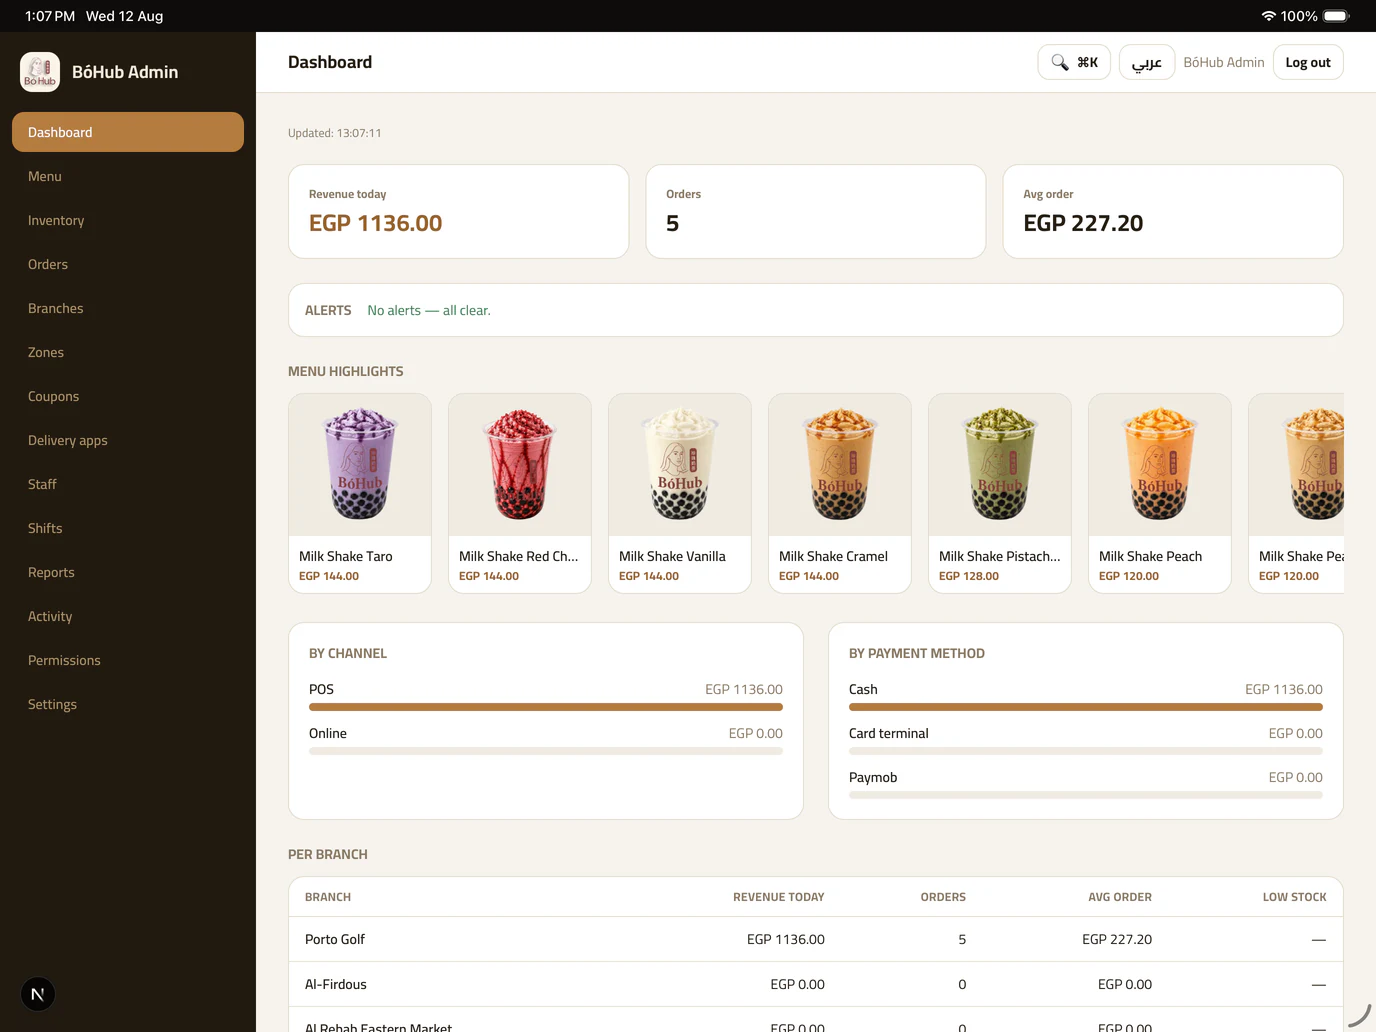
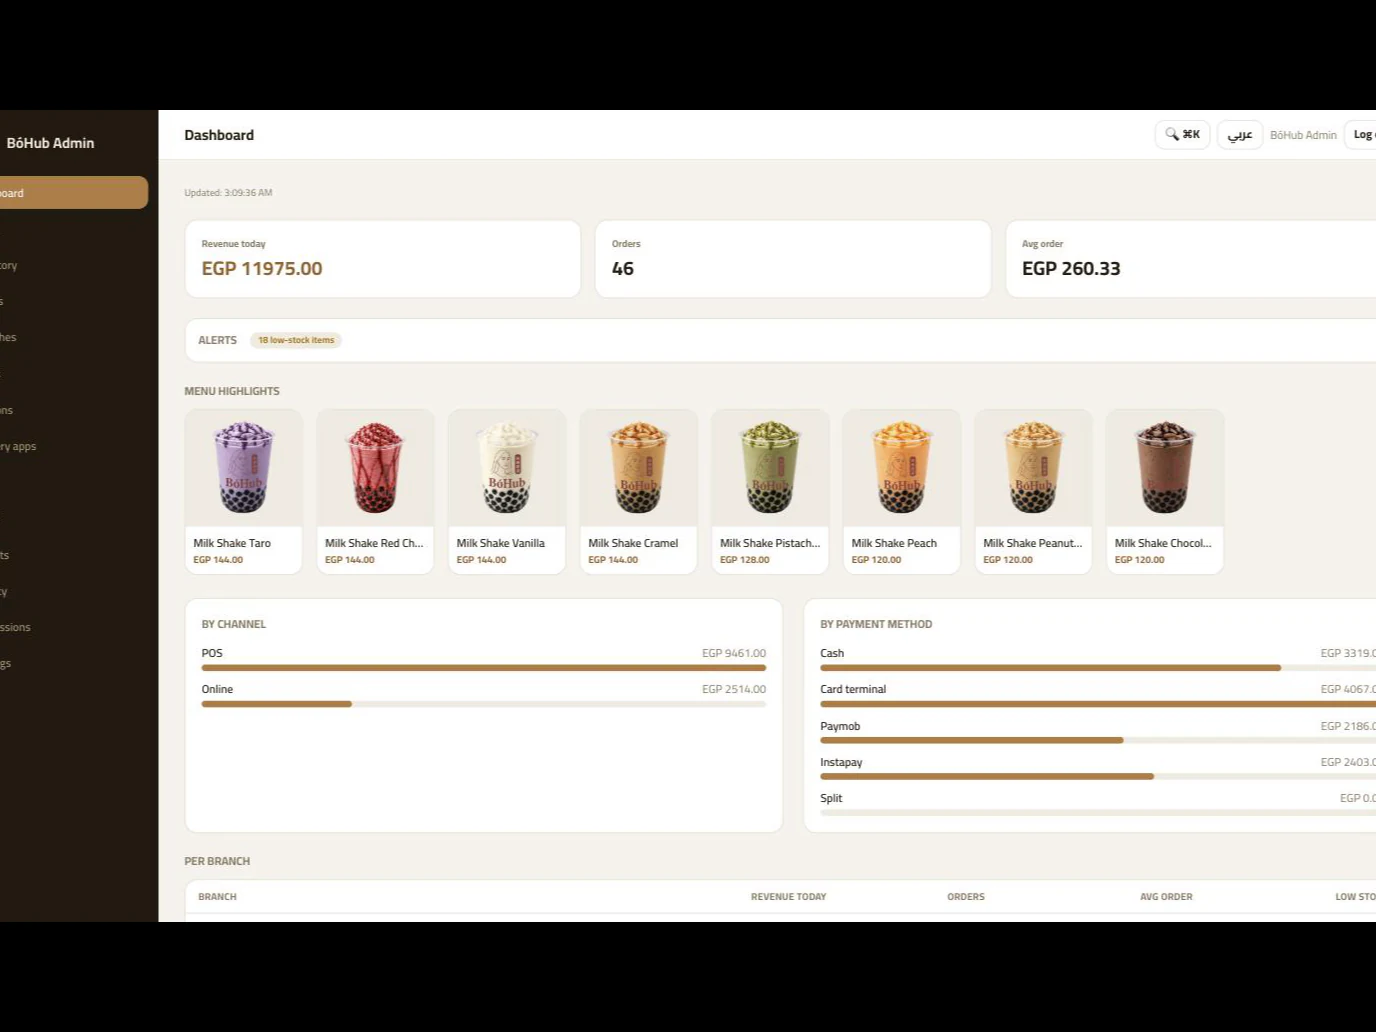
feat(sufra): real screenshots from a seeded stack, carousel and scroll motion
Ran the whole stack locally against the seeded dev database and
photographed it, rather than reusing the older captures.

The storefront finally has a real screenshot. It was the one surface still
drawing a CSS mock because no capture existed; the shop app now shows the
branded menu with product photography, prices and sale badges. All four
Tour surfaces are real product now, and Mock survives only as the fallback
for a tab added later with no capture.

Getting usable captures meant fixing the data first:
  - An e2e run had left a "split-e2e-msukb88s" category and product in the
    dev catalogue, which rendered at the top of the storefront menu.
  - The dashboard read zero because the only open business day was dated
    two days earlier, and daily reports bucket by business day, not by
    placedAt. Dated it to today and generated 34 completed orders spread
    across the day so the channel and payment-method bars have shape.
    Dev database only; production untouched.

New ScreenshotCarousel: a native scroll-snap track, so swipe, trackpad,
keyboard and scrollbar all work without being re-implemented, and the
slides are readable with no JS. Auto-advance pauses off-screen and when
the tab is hidden, stops permanently on first interaction, and never
starts under prefers-reduced-motion — a carousel that yanks itself along
while you read a caption is worse than none.

Navigation uses scrollIntoView({inline:"center"}) rather than arithmetic
[…]

diff --git a/components/ScreenshotCarousel.tsx b/components/ScreenshotCarousel.tsx
@@ -1,0 +1,190 @@
+"use client";
+
+import { useCallback, useEffect, useRef, useState } from "react";
+import IpadFrame from "@/components/IpadFrame";
+
+export interface CarouselItem {
+  src: string;
+  alt: string;
+  caption: string;
+  orientation?: "landscape" | "portrait";
+}
+
+/**
+ * Auto-advancing screenshot carousel.
+ *
+ * Built on a native scroll-snap track rather than transform slides, so the
+ * browser owns the physics: swipe on touch, trackpad flick, keyboard, and the
+ * scrollbar all work without being re-implemented, and it still functions if
+ * hydration never happens — the slides are laid out and scrollable in plain
+ * HTML. JS only adds auto-advance and the dots.
+ *
+ * Auto-play stops for good on first interaction. A carousel that yanks itself
+ * forward while the visitor is reading a caption is worse than no carousel, and
+ * `prefers-reduced-motion` disables it outright.
+ */
+export default function ScreenshotCarousel({
+  items,
+  ariaLabel,
+  intervalMs = 5200,
+}: {
+  items: CarouselItem[];
+  ariaLabel: string;
+  intervalMs?: number;
+}) {
+  const trackRef = useRef<HTMLDivElement>(null);
+  const [index, setIndex] = useState(0);
+  const [engaged, setEngaged] = useState(false);
+
+  /**
+   * Centre slide `i`.
+   *
+   * `scrollIntoView` rather than arithmetic on `offsetLeft`: offsetLeft is
+   * relative to the nearest positioned ancestor, not the scroll container, so
+   * computing a delta from it only coincidentally works — and it breaks in RTL,
+   * where the track's scroll origin sits on the right. `inline:"center"` is
+   * both snap-aware and direction-agnostic, and `block:"nearest"` stops it
+   * dragging the page vertically on the way.
+   */
+  const goTo = useCallback((i: number, smooth = true) => {
+    const slide = trackRef.current?.children[i] as HTMLElement | undefined;
+    slide?.scrollIntoView({
+      behavior: smooth ? "smooth" : "auto",
+      inline: "center",
+      block: "nearest",
+    });
+  }, []);
+
+  // Corrective sync for scrolls this component did not initiate — a swipe,
+  // a trackpad flick, a dragged scrollbar. Deliberately NOT the only source of
+  // truth: every code path that moves the track also sets `index` itself, so a
+  // dot still lights up even where scroll events are throttled or suppressed
+  // (some embedded and automated browsers emit none at all).
+  useEffect(() => {
+    const track = trackRef.current;
+    if (!track) return;
+    let frame = 0;
+    const onScroll = () => {
+      cancelAnimationFrame(frame);
+      frame = requestAnimationFrame(() => {
+        // Same reasoning as goTo: compare rect centres, not offsetLeft.
+        const t = track.getBoundingClientRect();
+        const mid = t.left + t.width / 2;
+        let best = 0;
+        let bestGap = Infinity;
+        for (let i = 0; i < track.children.length; i++) {
+          const r = (track.children[i] as HTMLElement).getBoundingClientRect();
+          const gap = Math.abs(r.left + r.width / 2 - mid);
+          if (gap < bestGap) { bestGap = gap; best = i; }
+        }
+        setIndex(best);
+      });
+    };
+    track.addEventListener("scroll", onScroll, { passive: true });
+    return () => {
+      track.removeEventListener("scroll", onScroll);
+      cancelAnimationFrame(frame);
+    };
+  }, []);
+
+  // Auto-advance: paused while off-screen, while the tab is hidden, and
+  // permanently once the visitor takes control.
+  useEffect(() => {
+    if (engaged || items.length < 2) return;
+    if (window.matchMedia("(prefers-reduced-motion: reduce)").matches) return;
+
+    const track = trackRef.current;
+    if (!track) return;
+    let visible = false;
+    const io = new IntersectionObserver(
+      ([e]) => { visible = e.isIntersecting; },
+      { threshold: 0.4 },
+    );
+    io.observe(track);
+
+    const id = setInterval(() => {
+      if (!visible || document.hidden) return;
+      setIndex((prev) => {
+        const next = (prev + 1) % items.length;
+        goTo(next);
+        return next;
+      });
+    }, intervalMs);
+
+    return () => { clearInterval(id); io.disconnect(); };
+  }, [engaged, goTo, intervalMs, items.length]);
+
+  const stop = useCallback(() => setEngaged(true), []);
+
+  return (
+    <div
+      className="flex flex-col gap-5"
+      role="region"
+      aria-roledescription="carousel"
+      aria-label={ariaLabel}
+      onPointerDown={stop}
+      onWheel={stop}
+      onKeyDown={(e) => {
+        if (e.key !== "ArrowRight" && e.key !== "ArrowLeft") return;
+        stop();
+        // Arrow keys are physical, not logical: in RTL the visually-right key
+        // still moves to the next slide because the track itself is flipped.
+        const dir = e.key === "ArrowRight" ? 1 : -1;
+        const rtl = getComputedStyle(e.currentTarget).direction === "rtl";
+        const next = Math.min(
+          items.length - 1,
+          Math.max(0, index + (rtl ? -dir : dir)),
+        );
+        setIndex(next);
+        goTo(next);
+      }}
+      tabIndex={0}
+    >
+      <div
+        ref={trackRef}
+        className="
+          flex snap-x snap-mandatory gap-5 overflow-x-auto overscroll-x-contain
+          pb-2 [scrollbar-width:none] [&::-webkit-scrollbar]:hidden
+        "
+      >
+        {items.map((item, i) => (
+          <figure
+            key={item.src}
+            className="w-[86%] shrink-0 snap-center sm:w-[68%] lg:w-[52%]"
+            aria-label={`${i + 1} / ${items.length}`}
+          >
+            <IpadFrame
+              src={item.src}
+              alt={item.alt}
+              orientation={item.orientation}
+              /* Only the first is eager; the rest are below the fold of the
+                 track and would otherwise all decode on load. */
+              priority={i === 0}
+            />
+            <figcaption className="mt-3 flex items-start gap-2 text-sm text-ink-dim">
+              <span className="pearl mt-2 shrink-0" aria-hidden="true" />
+              <span className="text-start">{item.caption}</span>
+            </figcaption>
+          </figure>
+        ))}
+      </div>
+
+      <div className="flex items-center justify-center gap-2">
+        {items.map((item, i) => (
+          <button
+            key={item.src}
+            type="button"
+            onClick={() => { stop(); setIndex(i); goTo(i); }}
+            aria-label={item.caption}
+            aria-current={i === index}
+            className={`h-2 rounded-full transition-all duration-300 ${
+              i === index
+                ? "w-7 bg-[var(--espresso)] dark:bg-[var(--on-espresso)]"
+                : "w-2 bg-ink-dim/30 hover:bg-ink-dim/60"
+            }`}
+          />
+        ))}
+      </div>
+    </div>
+  );
+}

diff --git a/components/ScrollLift.tsx b/components/ScrollLift.tsx
@@ -1,0 +1,68 @@
+"use client";
+
+import { useEffect, useRef } from "react";
+
+/**
+ * Scroll-linked lift: the child eases from slightly small, low and dimmed to
+ * its resting state as it travels up the viewport, then holds.
+ *
+ * Unlike `Reveal`, which fires once on intersection, this tracks scroll
+ * position continuously, so a device mockup feels attached to the page rather
+ * than popping in. The whole effect is a CSS custom property `--p` (0 → 1)
+ * written on the element; the transform reads from it, so the browser only ever
+ * composites — no layout, no React re-render per frame.
+ *
+ * Renders at rest (`--p: 1`) and only arms once JS runs, so no-JS visitors and
+ * crawlers see the finished state rather than a permanently dimmed one.
+ * `prefers-reduced-motion` leaves it at rest too.
+ */
+export default function ScrollLift({
+  children,
+  className = "",
+}: {
+  children: React.ReactNode;
+  className?: string;
+}) {
+  const ref = useRef<HTMLDivElement>(null);
+
+  useEffect(() => {
+    const el = ref.current;
+    if (!el) return;
+    if (window.matchMedia("(prefers-reduced-motion: reduce)").matches) return;
+
+    let frame = 0;
+    const update = () => {
+      frame = 0;
+      const rect = el.getBoundingClientRect();
+      const vh = window.innerHeight || 1;
+      // 0 while the top edge is still a viewport-height away, 1 once it has
+      // risen into the comfortable reading band.
+      const raw = 1 - (rect.top - vh * 0.25) / (vh * 0.75);
+      el.style.setProperty("--p", String(Math.min(1, Math.max(0, raw))));
+    };
+    const onScroll = () => {
+      if (frame) return;
+      frame = requestAnimationFrame(update);
+    };
+
+    el.dataset.armed = "true";
+    update();
+    window.addEventListener("scroll", onScroll, { passive: true });
+    window.addEventListener("resize", onScroll, { passive: true });
+    return () => {
+      window.removeEventListener("scroll", onScroll);
+      window.removeEventListener("resize", onScroll);
+      cancelAnimationFrame(frame);
+    };
+  }, []);
+
+  return (
+    <div
+      ref={ref}
+      className={`scroll-lift ${className}`.trim()}
+      style={{ "--p": 1 } as React.CSSProperties}
+    >
+      {children}
+    </div>
+  );
+}

diff --git a/components/home/Tour.tsx b/components/home/Tour.tsx
@@ -7,16 +7,18 @@ import { Check } from "@/components/icons";
 import Reveal from "@/components/Reveal";
 import { Container, SectionHead } from "@/components/Section";
 import IpadFrame from "@/components/IpadFrame";
+import ScrollLift from "@/components/ScrollLift";
 
 /**
  * Product tour — a vertical rail of surfaces on the reading edge, the selected
  * screen drawn opposite it.
  *
- * Three of the four surfaces now show the real product in an iPad frame —
- * captures of the live BóHub deployment, shipped as WebP (the whole set is
- * ~580 KB, and only the selected tab decodes). The customer storefront keeps
- * its CSS mock because no screenshot of it exists yet, and inventing one would
- * be the sort of thing this file's original comment was right to avoid.
+ * All four surfaces show the real product in an iPad frame — captures of the
+ * live BóHub deployment, shipped as WebP, and only the selected tab decodes.
+ * The storefront was the last to keep a CSS mock; rather than fake one, the
+ * shop app was run locally against the seeded database and photographed.
+ *
+ * `Mock` stays as the fallback for any tab added later that has no capture yet.
  */
 export default function Tour() {
   const locale = useLocale();
@@ -97,13 +99,15 @@ export default function Tour() {
                 </ul>
               </div>
               {shot ? (
-                <IpadFrame
-                  src={shot}
+                <ScrollLift>
+                  <IpadFrame
+                    src={shot}
                   /* The tab title is already translated and describes exactly
                      what the capture shows, so it doubles as the alt text
                      rather than adding a parallel string to both locales. */
-                  alt={tab.title}
-                />
+                    alt={tab.title}
+                  />
+                </ScrollLift>
               ) : (
                 <Mock id={tab.id} />
               )}
@@ -122,6 +126,7 @@ export default function Tour() {
 const SHOTS: Record<string, string | undefined> = {
   pos: "/screenshots/pos-order.webp",
   kds: "/screenshots/pos-kds.webp",
+  shop: "/screenshots/shop-menu.webp",
   admin: "/screenshots/admin-dashboard.webp",
 };
 

diff --git a/app/[locale]/features/page.tsx b/app/[locale]/features/page.tsx
@@ -5,7 +5,7 @@ import { buildMetadata } from "@/lib/meta";
 import CtaBand from "@/components/CtaBand";
 import FeatureGrid from "@/components/FeatureGrid";
 import PageHero from "@/components/PageHero";
-import ScreenshotShowcase from "@/components/ScreenshotShowcase";
+import ScreenshotCarousel from "@/components/ScreenshotCarousel";
 import Reveal from "@/components/Reveal";
 import { Container } from "@/components/Section";
 
@@ -86,7 +86,7 @@ export default async function FeaturesPage({
             </div>
           </Reveal>
           <div className="mt-9">
-            <ScreenshotShowcase
+            <ScreenshotCarousel
               ariaLabel={c.gallery.title}
               items={GALLERY.map((src, i) => ({
                 src,

diff --git a/app/globals.css b/app/globals.css
@@ -674,3 +674,16 @@ textarea,
     transition-duration: 0.01ms;
   }
 }
+
+/* Scroll-linked lift — see components/ScrollLift.tsx. The element renders at
+   rest and only animates once JS sets data-armed, so a no-JS visitor never
+   sees a permanently dimmed, shrunken mockup. */
+.scroll-lift[data-armed="true"] {
+  opacity: calc(0.45 + 0.55 * var(--p));
+  transform: translate3d(0, calc((1 - var(--p)) * 34px), 0)
+             scale(calc(0.955 + 0.045 * var(--p)));
+  will-change: transform, opacity;
+}
+@media (prefers-reduced-motion: reduce) {
+  .scroll-lift[data-armed="true"] { opacity: 1; transform: none; }
+}
